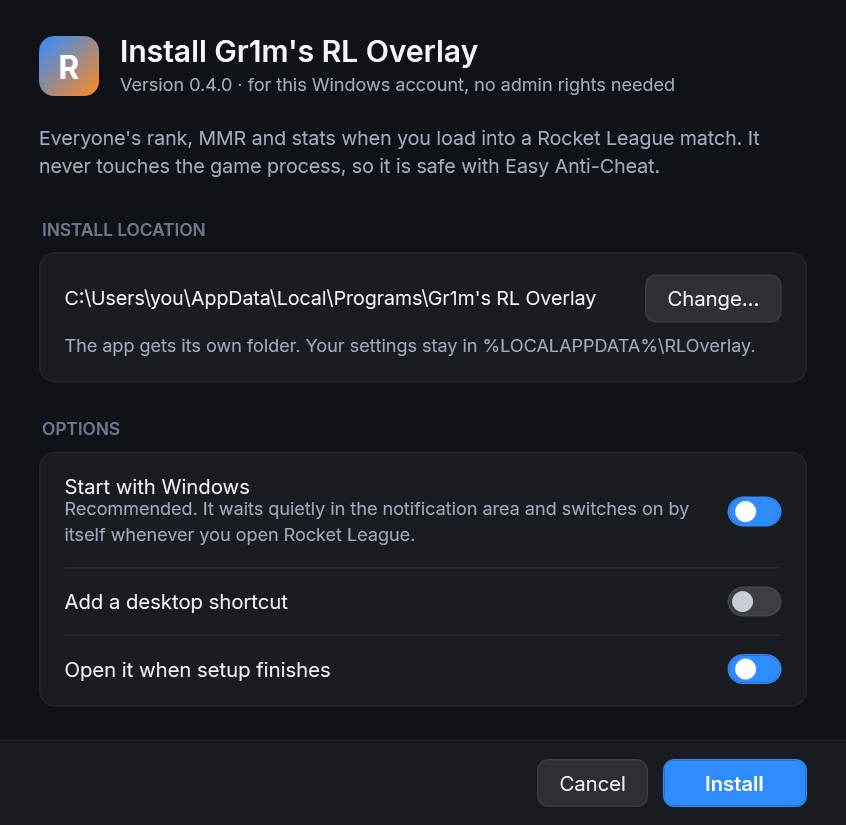
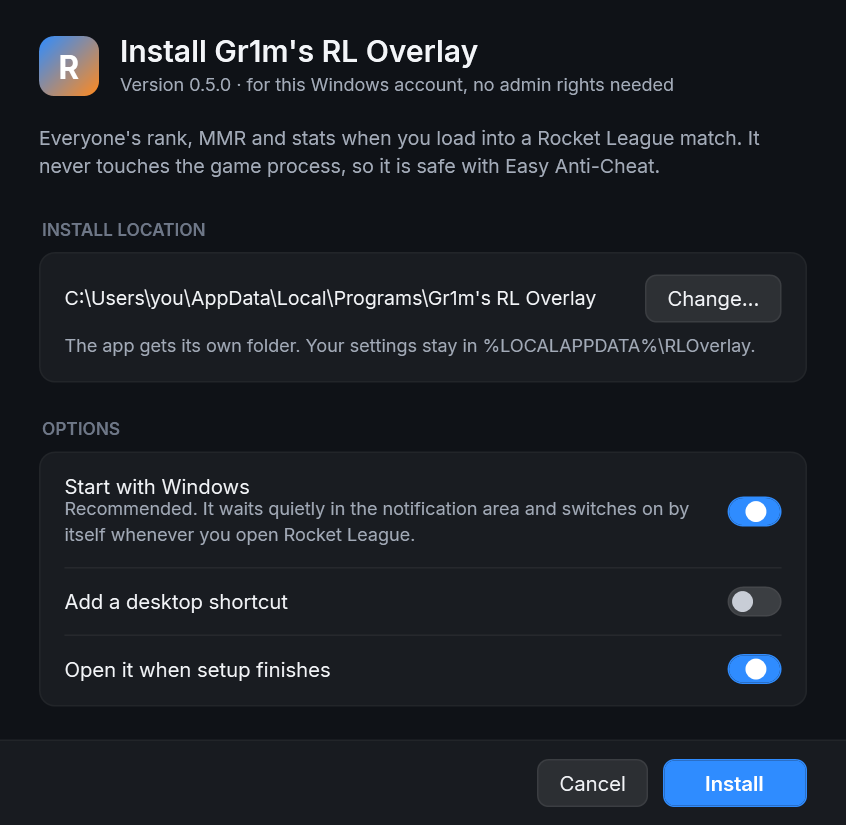
Version 0.5.0
- A row whose crop comes back the same (same playlist, stats, alignment and size) keeps its picture instead of
  taking a new one.
- README: Heatseeker, players who leave, keeping the game smooth, and a new Updates section (0.4 has to install
  0.5 by hand once).
- ARCHITECTURE and PROGRESS: Parts 13 and 14, the updater, launch flags, what is still unverified.
- Screenshots retaken from the 0.5.0 build (Heatseeker in the cycle, update settings).

Changed region(s): [[0.2459, 0.0909, 0.7991, 0.1212], [0.8605, 0.7879, 0.922, 0.8182], [0.8605, 0.6061, 0.922, 0.6364]]

diff --git a/src/RLOverlay.App/Views/TrackerRowView.cs b/src/RLOverlay.App/Views/TrackerRowView.cs
@@ -119,6 +119,7 @@ internal sealed class TrackerRowView : Grid, IDisposable
     private readonly CancellationTokenSource _life = new();
     private int _snapshotVersion;
     private bool _snapshotStale;
+    private string? _pictureKey;
     private DateTime _loadStarted;
     private TrackerCropResult? _lastCrop;
 
@@ -628,6 +629,10 @@ internal sealed class TrackerRowView : Grid, IDisposable
                         _logger.LogInformation("Overlay: {Player}'s row is in ({Seconds:0.0} s)", Player.Name, (DateTime.UtcNow - _loadStarted).TotalSeconds);
                     }
 
+                    // The same crop of the same row again (tiles checked once more, widths re-aligned to the same values):
+                    // the picture already shows it.
+                    var pictureKey = $"{label}|{options.Key}|{string.Join(',', align)}";
+                    var unchanged = State == TrackerRowState.Cropped && pictureKey == _pictureKey && SameCrop(_lastCrop, result);
                     _lastCrop = result;
                     SetBandColour(result.Background);
                     _poll.Stop();
@@ -645,7 +650,12 @@ internal sealed class TrackerRowView : Grid, IDisposable
                     }
 
                     SetState(TrackerRowState.Cropped, "");
-                    _ = RefreshSnapshotAsync();
+                    if (!unchanged)
+                    {
+                        _pictureKey = pictureKey;
+                        _ = RefreshSnapshotAsync();
+                    }
+
                     break;
 
                 case TrackerCropStatus.NoRow:
@@ -695,6 +705,10 @@ internal sealed class TrackerRowView : Grid, IDisposable
         }
     }
 
+    private static bool SameCrop(TrackerCropResult? a, TrackerCropResult b) =>
+        a is not null && a.Width == b.Width && a.Height == b.Height && a.Background == b.Background && a.Missing == b.Missing
+        && (a.Cells ?? []).SequenceEqual(b.Cells ?? []);
+
     private void SetBandColour(string? css)
     {
         var colour = TrackerPage.TryParseCssColor(css, out var r, out var g, out var b) ? Color.FromRgb(r, g, b) : DefaultBand;
@@ -740,6 +754,7 @@ internal sealed class TrackerRowView : Grid, IDisposable
             {
                 _snapshotVersion++;
                 _snapshotStale = false;
+                _pictureKey = null;
                 _snapshot.Visibility = Visibility.Collapsed;
                 _web.Visibility = state == TrackerRowState.ShowingPage ? Visibility.Visible : Visibility.Hidden;
             }

diff --git a/README.md b/README.md
@@ -7,8 +7,9 @@ default): rank, division, rating and how far to the next division, plus the stat
 Blue and Orange each get their own block, and the columns line up from player to player. Drag the header to move
 the panel and drag a corner to resize it. The panel fades out at kickoff, and clicking a name opens that player's
 full tracker.gg profile. After the match the whole lobby stays available (`Ctrl+R`) so you can look up who you just
-played, through freeplay and the menus, until you load into a new game with other players or close the game. The
-app waits quietly in the tray and switches on by itself when Rocket League starts. No account or API key is needed.
+played, through freeplay and the menus, until you load into a new game with other players or close the game.
+Players who quit early stay on the board too, marked *left the match*. The app waits quietly in the tray, switches
+on by itself when Rocket League starts and keeps itself up to date from GitHub. No account or API key is needed.
 
 ![The lobby screen (preview with made-up players)](docs/screenshots/01_screen_layout.png)
 
@@ -18,7 +19,7 @@ tracker.gg page. The repository holds no screenshots of tracker.gg pages because
 | Key | Does |
 |---|---|
 | `Ctrl+R` | Show / hide the lobby (works during the match too, where the next kickoff hides it again, and after the match) |
-| `Ctrl+G` | Next playlist: 1v1, 2v2, 3v3, Hoops, Rumble, Dropshot, Snow Day, Tournaments, Casual. Every row moves at once, without reloading |
+| `Ctrl+G` | Next playlist: 1v1, 2v2, 3v3, Hoops, Rumble, Dropshot, Snow Day, Heatseeker, Tournaments, Casual. Every row moves at once, without reloading |
 | Click a name | Opens that player's tracker.gg profile in your browser |
 | Drag the header | Moves the panel anywhere on the game's screen (the dotted grip on the right shows where to grab) |
 | Drag a corner | Resizes the panel, from 75 % to 150 % (blue brackets show the corners when the pointer is over them) |
@@ -63,7 +64,15 @@ reads the numbers, so nothing is stored, cached or sent anywhere else.
 * Steam players are found by their SteamID64. Epic, PlayStation, Xbox and Switch players are found by the name the
   game shows, which may not be the name on their tracker.gg profile.
 * tracker.gg gets what a normal visit sends: the profile addresses (so the player names) and its own cookies, kept
-  in `%LOCALAPPDATA%\RLOverlay\webview`. Its ads still load, hidden and muted.
+  in `%LOCALAPPDATA%\RLOverlay\webview`. Only tracker.gg itself loads (its pages, images, fonts and data, plus
+  Cloudflare's browser check): ads, video players and trackers are blocked, since they never showed anyway.
+
+**Keeping the game smooth.** Loading a lobby used to cost frames. Now at most three pages load at once, out of
+sight and at below-normal priority, without the page's ads and videos. Once a row is in, it is shown as a still
+picture taken from the page, and the browser stops sending frames to the overlay. Measured on a 2v2 lobby: about a
+quarter of the CPU time 0.4 needed to load it, GPU use from about 9 % to under 1 %, and about 0 % CPU once the
+rows are in (0.4 kept using around half a core for as long as the lobby was up). Switching playlist or stats crops
+the same pages again and takes new pictures, so it is still instant.
 
 ## Requirements
 
@@ -92,8 +101,9 @@ offers:
 
 ![Setup](docs/screenshots/11_setup.png)
 
-Running the setup again updates the installed copy (it closes the running one first). To remove it: *Settings →
-Apps → Gr1m's RL Overlay → Uninstall*. Your settings are kept unless you tick the box to delete them.
+Running the setup again updates the installed copy (it closes the running one first), but from 0.5 on new
+versions also install themselves (see [Updates](#updates)). To remove it: *Settings → Apps → Gr1m's RL Overlay →
+Uninstall*. Your settings are kept unless you tick the box to delete them.
 
 `publish/RLOverlay.exe` is the same program without installing: run it from any folder. Both files are about 70 MB
 and need no .NET install. They are not code-signed, so Windows SmartScreen may warn the first time; choose
@@ -138,6 +148,9 @@ Stats API on.
 * Clicking a name opens the full profile in your browser. While the browser is in front the overlay hides; alt-tab
   back to the game and it returns.
 * At kickoff the lobby fades out. `Ctrl+R` brings it back mid-match; the next kickoff hides it again.
+* **Players who leave** (quitters, dropped connections) stay on the board, dimmed and marked *left the match*, and
+  the team header counts them (*1 / 2 · 1 left*). They go with the rest of the lobby when the next game starts; if
+  they come back, the mark goes.
 * **After the match** the whole lobby is kept: press `Ctrl+R` on the podium, back in the menus or in freeplay to see
   everyone you just played with and click their names. Freeplay and training don't replace it. It is replaced once
   you load into a new game with at least one other player, and cleared when you close the game.
@@ -154,17 +167,34 @@ double-click opens Settings. Starting the exe again while it runs also opens Set
 The settings window covers the game connection (Stats API status per ini file, *Enable Stats API…*, the port), the
 **stats next to each rank** (Wins, Streak, Peak MMR, All-time peak, Goals, Shots, Assists, Saves, MVPs), which
 playlists `Ctrl+G` cycles through and the default, the two shortcuts (click a field and press the new combination),
-size (75 % to 150 %, with *Reset to top right* to put the panel back in its corner) and *Start with Windows*.
+size (75 % to 150 %, with *Reset to top right* to put the panel back in its corner), *Start with Windows* and
+*Update automatically*.
 **Preview** shows the lobby screen with made-up players while you adjust it, and you can drag it around and resize
 it there too; nothing is kept until you press **Save**.
 
 ![Settings](docs/screenshots/08_settings.png)
 
-**Updating from an earlier version:** 0.4 moves the panel once to the new top-right spot at 85 % and turns
+**Updating from an earlier version:** 0.5 adds Heatseeker to the playlists `Ctrl+G` cycles through and turns on
+*Update automatically*; 0.4 and older can't update themselves, so install 0.5 once by hand (download
+`Gr1msRLOverlay-Setup.exe` from the [latest release](https://github.com/Gr1m0305/RL-Rank-Viewer/releases/latest) and
+run it). 0.4 moves the panel once to the new top-right spot at 85 % and turns
 *Follow the match's playlist* off; drag it wherever you like afterwards. Your stats, shortcuts and playlists are
 kept. From 0.2 or older: the RapidAPI, tracker.gg-key and test-data sources, the `Ctrl+T` window and the rank icon
 downloads are gone; tracker.gg's rows are now the main screen, your stat choice starts once at the defaults (Wins,
 Streak, Peak MMR) and old API keys are dropped the next time settings are saved.
+
+## Updates
+
+From 0.5, the app looks for a new release on GitHub a minute after it starts and then every 6 hours. A newer
+version's setup file is downloaded in the background into `%LOCALAPPDATA%\RLOverlay\updates` and checked: its
+size, GitHub's SHA-256 checksum, and that it really is this app at that version. Only this repository's release
+files are accepted, and nothing about you is sent (the request carries only `RLOverlay/<version>`).
+
+With **Update automatically** on (the default), the installed copy installs the update the next time Rocket League
+is closed: setup runs without a window, replaces the app and starts the new version, which shows a short *Updated to
+version …* notice. It never installs in the middle of a game. With it off, or when running a copy that isn't the
+installed one, a notice says the update is ready. Settings → *General* shows what the updater found and has
+**Check for updates** and **Install … now** (which restarts the overlay).
 
 ## Try it without the game
 
@@ -216,6 +246,7 @@ dotnet test RLOverlay.sln
 | Shortcuts do nothing | They only work while Rocket League is in front. If another app already uses the combination, the log says so; pick another in Settings. |
 | Lobby in the wrong place or too wide | Drag its header or a corner (in a match, or with **Preview** on in Settings). Settings → *Position and size* → *Reset to top right* puts it back. Unticking some stats makes it narrower. |
 | The lobby after a match is gone | It is kept through freeplay and the menus, and replaced by the next game that has other players in it. Joining a match and leaving before anyone else arrives keeps it too. |
+| An update doesn't arrive | Settings → *General* says what the updater last found (for example no connection to GitHub). It installs only while Rocket League is closed; **Install … now** does it straight away. 0.4 and older have no updater: install 0.5 by hand once. |
 
 ## Files
 
@@ -224,6 +255,7 @@ dotnet test RLOverlay.sln
 | `%LOCALAPPDATA%\RLOverlay\settings.json` | settings |
 | `%LOCALAPPDATA%\RLOverlay\logs\` | daily logs, 7 kept |
 | `%LOCALAPPDATA%\RLOverlay\webview\` | the built-in browser's data (tracker.gg cookies and cache) |
+| `%LOCALAPPDATA%\RLOverlay\updates\` | a downloaded update's setup file, until it is installed |
 
 Earlier versions also kept `cache\`, `ranks\` and `rocket-league-api-usage.json` there; they are no longer used and
 can be deleted.
